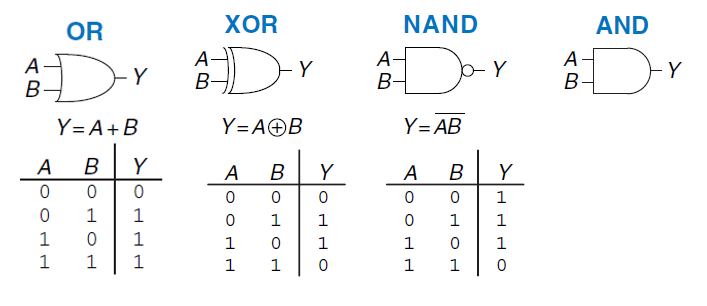
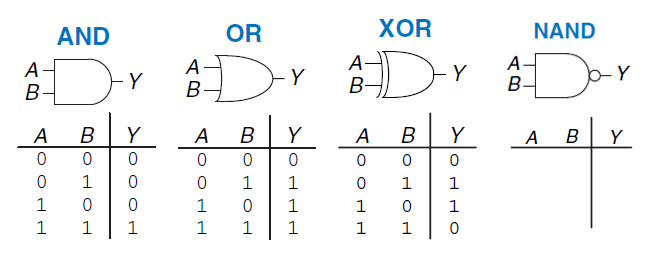
updated README

diff --git a/lab1/README.md b/lab1/README.md
@@ -90,7 +90,7 @@ Looking at figure 3, let us assume the rows are denoted by the numbers (they are
 
 
 #### Part 1.A Experiment with LED
-LED stands for Light Emitting Diodes; a diode is a semiconductor device that allows current to flow easily in one direction but restricts current flowing in opposite direction. Diodes can be used to protect motors and electronics from current going in the reverse bias which can damage electronic components. The diode we are using provides light as the name suggests.
+LED stands for Light Emitting Diodes; a diode is a semiconductor device that allows current to flow easily in one direction but restricts current flowing in opposite direction. LED's are especially useful for its low energy consumption and smaller size, which makes it possible to use for our lab! 
 The LED must be placed in a specific direction for it to turn on. The two pins of the LED are called cathode, the short pin, and anode, the long pin. Look at the diagram in Figure 4, the anode and cathode of the LED corresponds to its circuit representation. As current flows through the LED from anode to cathode, it will emmit light.   
 
 <figure>
@@ -115,10 +115,11 @@ Wire up the simple LED circuit shown in Figure 5 below. You may also refer to Fi
     </font>
 </figure>
 
-
+<h2>
 ```diff
-Sign-Off Milestone:
-``` 
+-Sign-Off Milestone-
+```
+</h2> 
 Once you have wired everything up, have an instructor verify that the components are connected correctly; then the instructor will demonstrate how to plug in the barrel connector, test the circuit, and turn the board on/off using the switch on the breadboard power supply. Try putting the LED in both directions. 
 
 *Critical Thinking Questions*: What do you think would happen if we used a resistor with higher resistance? What do you think would happen if we used a resistor with lower resistance? What would happen if we put two resistors in series or in parallel?
@@ -190,19 +191,21 @@ Notice that we have already provided you with the PMOS and NMOS transistors that
 ### Part 2. Understanding Basic Logic Gates
 In the previous section, we learned about basic digital circuits and how they can be implemented. In this section, we will take what we have learned and abstract it away and eventually build a parity checker with these new gates we discovered.
 
-#### Part 2.A Experiment with AND, OR, XOR Gates
+#### Part 2.A Experiment with AND, OR, XOR, NAND Gates
 
-Figures 9 show us the circuit symbols for some basic logic gates and their accompanying truth tables.
+Figures 9 show us the circuit symbols for some basic logic gates and their accompanying truth tables. Can you fill out the truth table for the NAND gate? You may have guessed it, a NAND gate comes from NOT+AND=NAND. Thus a NAND gate is AND gated inverted. Looking at the figure, the only difference between a NAND and AND gate is the bubble at the output pin for a NAND gate. 
 
 <figure>
-    <img src="https://github.com/cornell-zhang/catalyst2018/blob/master/lab1/figures/Logicgates2.png" width="500">
+    <img src="https://github.com/cornell-zhang/catalyst2018/blob/master/lab1/figures/Logicgates.png" width="500">
     <font size="2">
         <figcaption> Figure 9: Circuit Symbols for Different Logic Gates [1] <br></br></a>
     </figcaption>
     </font>
 </figure>
 
-After turning off the power supply, begin to wire up the AND gate as shown in Figure 10 below. During this process try to come up with the truth table for a NAND gate, and check to see that your results are expected once you have finished up the wiring. Wire up a single gate from the other two chips in a similar fashion and come up with a truth table for each using the same process as the previous part. Using these truth tables, try to determine which gate is the XOR and which is the OR gate.
+After turning off the power supply, begin to wire up the AND gate as shown in Figure 10 below. During this process try to come up with the truth table for an AND gate, and check to see that your results are expected once you have finished up the wiring. After that, you can try to covert your AND gate into a NAND gate. Remember that NAND gate is just NOT+AND.
+
+Wire up a single gate from the other two chips in a similar fashion and come up with a truth table for each using the same process as the previous part. Using these truth tables, try to determine which gate is the XOR and which is the OR gate.
 
 <figure>
     <img src="https://github.com/cornell-zhang/catalyst2018/blob/master/lab1/figures/IntegratedCircuitDiagram.png" width="800">
@@ -212,35 +215,19 @@ After turning off the power supply, begin to wire up the AND gate as shown in Fi
     </font>
 </figure>
 
+<h2>
 ```diff
-Sign-Off Milestone:
-``` 
- Once you have determined which chip contains the each type of gate, show an instructor your truth tables and demonstrate the operation of either the OR or the AND gate. 
+-Sign-Off Milestone-
+```
+</h2> 
+ Once you have determined which chip contains the each type of gate, show an instructor your truth tables and demonstrate the operation of either the OR or the XOR gate. 
 
 *Critical Thinking Questions*: So far we have seen four two-input logic gates: NAND, AND, OR, and XOR. How many different logic gates are possible if we limit ourselves to gates with just two inputs and one output? 
 
 #### Part 2.B Develop Parity Checker
-In this section, you will develop a parity checker, which is useful in determining whether a message has been compromised in any way when it was being sent. The sender can calculate the parity of a message and send the parity bit along with the message. The receiver can then also calculate the parity of the message and compare it to the parity bit sent along with the message. If the parity bits do not match then it is likely that one of the bits in the message was corrupted. A parity unit should produce a zero when there is an even number of ones in the input and one when there is an odd number of ones in the input. This means that the total number of ones(including both the input and the parity unit) should be an even number. 
+In this section, you will develop a parity checker, which checks for errors in the transmission. Digital messages are always binary (it is the language of computers!) and are composed entirely of ones and zeros. The parity checker takes advantage of this fact by counting the number of ones and zeros to check for erros in the message.  Parity checker can be even or odd parity. An even parity unit produces a zero when there is an even number of ones in the input and one when there is an odd number of ones in the input, which signifies that there is an error in the input. This means that the total number of ones(including both the input and the parity unit) should be an even number. The sender can calculate the parity of a message and send the parity bit along with the message. The receiver can then also calculate the parity of the message and compare it to the parity bit sent along with the message. If the parity bits do not match then it is likely that one of the bits in the message was corrupted. We will be implementing an even parity checker.
 
-<figure>
-    <img src="https://github.com/cornell-zhang/catalyst2018/blob/master/lab1/figures/ParityChecker.png" width="600">
-    <font size="2">
-        <figcaption> Figure 11: Parity Checker [2] <br></br> </a>
-    </figcaption>
-    </font>
-</figure>
-
-Figure 11 illustrates how a four-bit parity checker can be implemented using four XOR gates. Verify, by filling out the truth table below, that this is the case, and once done with the wiring, do the same with your setup, checking all combinations of inputs.
-
-<figure>
-    <img src="https://github.com/cornell-zhang/catalyst2018/blob/master/lab1/figures/PlanningDiagramFullAdder.png" width="800">
-    <font size="2">
-        <figcaption> Figure 12: Schematics for the three chips <br></br></a>
-    </figcaption>
-    </font>
-</figure>
-
-The schematics in Figure 12 shows you the pin connections for the chips and what inputs and outputs each pin pretains to.  
+Figure 11 illustrates how a four-bit parity checker can be implemented using three XOR gates. Fill out the truth table below and build the parity checker using Figure 11. After you are done, make sure the truth table you fill out and the circuit you built agree by checking different combinations of inputs.
 
 Parity Checker Truth table : Fill out the rest
     
@@ -262,6 +249,25 @@ Parity Checker Truth table : Fill out the rest
 |1||||
 |1||||
 |1||||
+
+
+<figure>
+    <img src="https://github.com/cornell-zhang/catalyst2018/blob/master/lab1/figures/ParityChecker.png" width="600">
+    <font size="2">
+        <figcaption> Figure 11: Parity Checker [2] <br></br> </a>
+    </figcaption>
+    </font>
+</figure>
+
+The schematics in Figure 12 shows you the internal connections for the chips and pin connections on breadboard. Notice that each chip contains multiple gates of the same type. Each chip requires a power (VDD) and a common ground (GND). 
+
+<figure>
+    <img src="https://github.com/cornell-zhang/catalyst2018/blob/master/lab1/figures/PlanningDiagramFullAdder.png" width="800">
+    <font size="2">
+        <figcaption> Figure 12: Schematics for the three chips <br></br></a>
+    </figcaption>
+    </font>
+</figure>
 
 
 <details><summary><I>HINT 1</I></summary>
@@ -343,9 +349,11 @@ Wire up the full-adder shown in Figure 14 below. A full adder contains a carry i
     </font>
 </figure>
 
+<h2>
 ```diff
-Sign-Off Milestone:
-``` 
+-Sign-Off Milestone-
+```
+</h2> 
  Once you have wired up the full-adder unit, show an instructor its operation and verify the corresponding truth table.
 
 <details><summary><I>HINT 1</I></summary>
@@ -369,9 +377,9 @@ Sign-Off Milestone:
 </details>
 
 #### Part 3.C Develop multi-bit ripple-carry adder
-In this last section you will combine full adders in order to develop a two-bit ripple-carry adder. For a ripple-carry adder, the Cout of one stage acts as the Cin of the next stage. Observe Figure 16, a ripple-carry adder is a combination of multiple full adders. This systems provides regularity and modularity. We can theoretically have N-bit ripple-carry adder using N adders which can handle binary addition up to N bits. The ripple-carry adder starts in the full adder for the least significant bits with carry in of zero. It first calculates the result and Cout from binary addition of the least significant bits. Then, the full adder passes the Cout to the next adder in line. The next adder takes the Cout as Cin as well as A and B to calculate its own result and Cout. It passes the Cout to the next adder in the chain until it reaches the end of the chain. The Cout for the last adder is helpful in determining if the binary addition resulted in overflow. If the Cin is not the same as the Cout, then most likely overflow occurs. The name "ripple-carry" comes from the fact that the carry moves through the system. Think about how in decimal arithmetic, we can end up carrying 1..9 multiple times if the carry results in addition greater than 10.  
+In this last section you will combine full adders in order to develop a two-bit ripple-carry adder. For a ripple-carry adder, the Cout of one stage acts as the Cin of the next stage. Observe Figure 16, a ripple-carry adder is a combination of multiple full adders. This systems provides regularity and modularity. We can theoretically have N-bit ripple-carry adder using N adders which can handle binary addition up to N bits. The ripple-carry adder starts in the full adder for the least significant bits (the "ones" digit) with carry in of zero. It first calculates the result and Cout from binary addition of the least significant bits. Then, the full adder passes the Cout to the next adder in line. The next adder takes the Cout as Cin as well as A and B to calculate its own result and Cout. It passes the Cout to the next adder in the chain until it reaches the end of the chain. The Cout for the last adder is helpful in determining if the binary addition resulted in overflow. If the Cin is not the same as the Cout, then most likely overflow occurs. The name "ripple-carry" comes from the fact that the carry moves through the system. Think about how in decimal arithmetic, we can end up carrying 1..9 multiple times if the carry results in addition greater than 10 for the digits of the next order.  
 
-Find another group that also has a completed full-adder and find a way to chain both of your integrated full-adder boards together to create a hardware unit capable of adding two two-bit numbers. The configuration is shown in Figure 16 below. Both full adders should be powered using 9v batteries. You will likely need extra wires. Ask the TA's for materials and/or help. Verify that this simple two-bit ripple-carry adder works. 
+Figure 16 shows how we can chain a bunch of full adders to create a N-bit ripple carry adder.
 
 <figure>
     <img src="https://github.com/cornell-zhang/catalyst2018/blob/master/lab1/figures/Adder.png" width="900">
@@ -380,6 +388,13 @@ Find another group that also has a completed full-adder and find a way to chain 
     </figcaption>
     </font>
 </figure>
+
+<h2>
+```diff
+-Sign-Off Milestone-
+```
+</h2> 
+Find another group that also has a completed full-adder and find a way to chain both of your integrated full-adder boards together to create a hardware unit capable of adding two two-bit numbers. The configuration is shown in Figure 16 below. Both full adders should be powered using 9v batteries. You will likely need extra wires. Ask the TA's for materials and/or help. Verify that this simple two-bit ripple-carry adder works. 
 
 *Critical Thinking Questions*: What do you think is a disadvantage of the ripple-carry adder. Think about the name of the adder and what would happen if we have a large amount of full adders chained together. What would be a solution to this problem?
 
